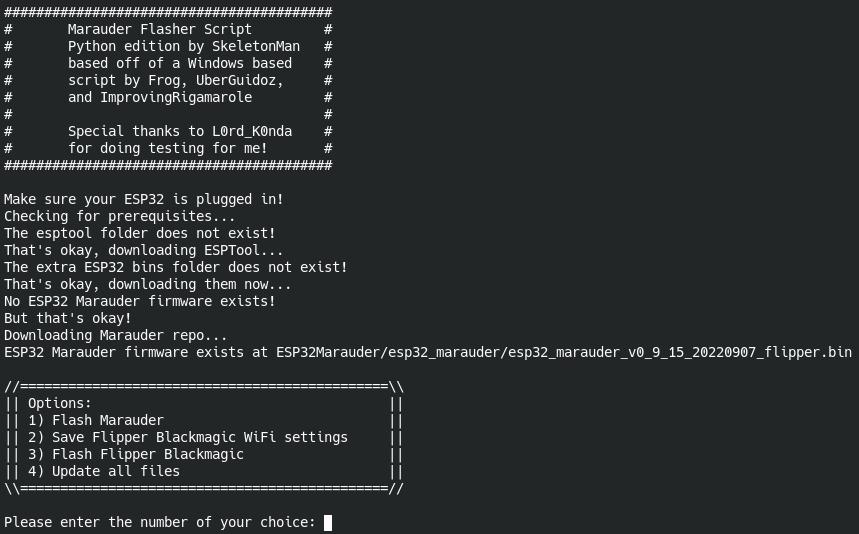
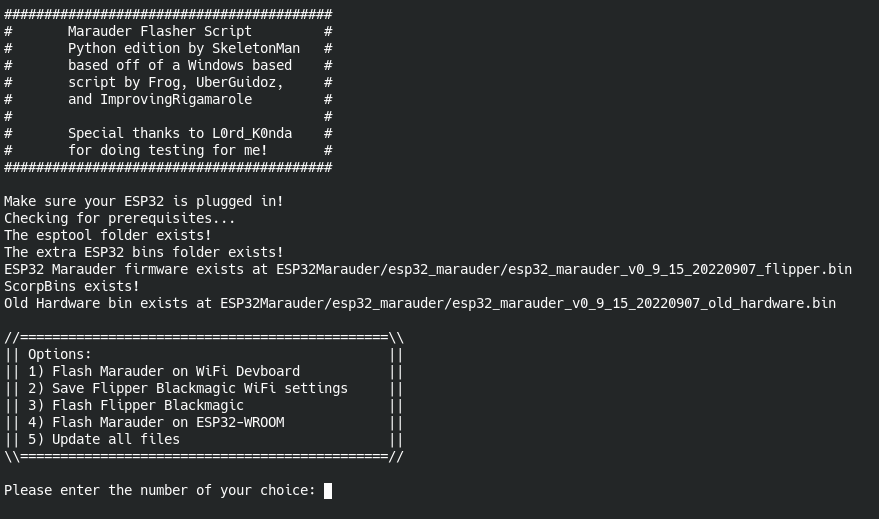
Added ability to flash ESP32-Wroom!
Finally added the ability to flash ESP32-Wroom! Thanks to Scorp for compiling the bootloader and partitions bins!

Changed region(s): [[0.0, 0.0, 0.9988, 1.0]]

diff --git a/EasyInstall.py b/EasyInstall.py
@@ -43,6 +43,18 @@ def checkforesptool():
 		Repo.clone_from(esptoolrepo, "esptool")
 	return
 
+def checkforscorpbins():
+	scorpbinsrepo="https://github.com/SkeletonMan03/TempScorpBins.git"
+	global scorpbins
+	scorpbins=("ScorpBins")
+	if os.path.exists(scorpbins):
+		print("ScorpBins exists!")
+	else:
+		print("The ScorpBins folder does not exist!")
+		print("That's okay, downloading them now...")
+		Repo.clone_from(scorpbinsrepo, scorpbins)
+	return
+
 def checkforextrabins():
 	extraesp32binsrepo="https://github.com/UberGuidoZ/Marauder_BINs.git"
 	global extraesp32bins
@@ -59,24 +71,33 @@ def choose_fw():
 	choices='''
 //==============================================\\\ 
 || Options:					||
-|| 1) Flash Marauder				||
+|| 1) Flash Marauder on WiFi Devboard		||
 || 2) Save Flipper Blackmagic WiFi settings	||
 || 3) Flash Flipper Blackmagic			||
-|| 4) Update all files				||
+|| 4) Flash Marauder on ESP32-WROOM		||
+|| 5) Update all files				||
 \\\==============================================//
 '''
+	global chip
 	print(choices)
 	fwchoice=int(input("Please enter the number of your choice: "))
 	if fwchoice==1:
 		print("You have chosen to flash Marauder!")
+		chip="esp32s2"
 		flash_esp32marauder()
 	elif fwchoice==2:
 		print("You have chosen to save Flipper Blackmagic WiFi settings")
+		chip="esp32s2"
 		save_flipperbmsettings()
 	elif fwchoice==3:
 		print("You have chosen to flash Flipper Blackmagic")
+		chip="esp32s2"
 		flash_flipperbm()
 	elif fwchoice==4:
+		print("You have chosen to flash Marauder onto an ESP32-WROOM")
+		chip="esp32"
+		flash_esp32wroom()
+	elif fwchoice==5:
 		print("You have chosen to update all of the files")
 		update_option()
 	else:
@@ -85,7 +106,7 @@ def choose_fw():
 
 def erase_esp32fw():
 	print("Erasing firmware...")
-	os.system("python3 "+esptoolfile+ " -p "+ serialport+ " -b "+ BR+ " -c esp32s2 --before default_reset -a no_reset erase_region 0x9000 0x6000")
+	os.system("python3 "+esptoolfile+ " -p "+ serialport+ " -b "+ BR+ " -c "+chip+" --before default_reset -a no_reset erase_region 0x9000 0x6000")
 	print("Firmware erased!")
 	print("Waiting 5 seconds...")
 	time.sleep(5)
@@ -106,19 +127,42 @@ def checkforesp32marauder():
 		else:
 			print("Somehow, the ESP32 Marauder firmware still does not exist!")
 		return
+def checkforoldhardwarebin():
+	espoldhardwarefwc=('ESP32Marauder/esp32_marauder/esp32_marauder_v[0-9]_[0-9]_[0-9][0-9]_*_old_hardware.bin')
+	if not glob.glob(espoldhardwarefwc):
+		print("old_hardware bin does not exist!")
+	global espoldhardwarefw
+	for espoldhardwarefw in glob.glob(espoldhardwarefwc):
+		if os.path.exists(espoldhardwarefw):
+			print("Old Hardware bin exists at", espoldhardwarefw)
+		else:
+			print("Somehow, the old_hardware.bin file does not exist!")
+	return
 
 def prereqcheck():
 	print("Checking for prerequisites...")
 	checkforesptool()
 	checkforextrabins()
 	checkforesp32marauder()
+	checkforscorpbins()
+	checkforoldhardwarebin()
 	return
 
 def flash_esp32marauder():
 	erase_esp32fw()
 	print("Flashing ESP32 Marauder Firmware...")
-	os.system("python3 "+esptoolfile+ " -p "+ serialport+ " -b "+ BR+ " -c esp32s2 --before default_reset -a no_reset write_flash --flash_mode dio --flash_freq 80m --flash_size 4MB 0x1000 "+ extraesp32bins +"/Marauder/bootloader.bin 0x8000 "+ extraesp32bins +"/Marauder/partitions.bin 0x10000 "+ esp32marauderfw)
+	os.system("python3 "+esptoolfile+ " -p "+ serialport+ " -b "+ BR+ " -c "+chip+" --before default_reset -a no_reset write_flash --flash_mode dio --flash_freq 80m --flash_size 4MB 0x1000 "+ extraesp32bins +"/Marauder/bootloader.bin 0x8000 "+ extraesp32bins +"/Marauder/partitions.bin 0x10000 "+ esp32marauderfw)
 	print("ESP32 has been flashed with Marauder!")
+	return
+
+def flash_esp32wroom():
+	global serialport
+	print("Flashing ESP32 Marauder Firmware onto ESP32-Wroom...")
+	if serialport=="/dev/ttyACM0":
+		serialport="/dev/ttyUSB0"
+	erase_esp32fw()
+	os.system("python3 "+esptoolfile+" -p"+serialport+" -b"+BR+" --before default_reset --after hard_reset -c esp32 write_flash --flash_mode dio --flash_freq 80m --flash_size 2MB 0x8000 "+scorpbins+"/partitions.bin 0x1000 "+scorpbins+"/bootloader.bin 0x10000 "+espoldhardwarefw)
+	print("ESP32-Wroom has been flashed with Marauder!")
 	return
 
 def save_flipperbmsettings():
@@ -126,17 +170,17 @@ def save_flipperbmsettings():
 	if serialport=="/dev/cu.usbmodem01":
 		serialport="/dev/cu.usbmodemblackmagic1"
 	print("Saving Flipper Blackmagic WiFi Settings to Extra_ESP32_Bins/Blackmagic/nvs.bin")
-	os.system("python3 "+esptoolfile+" -p "+serialport+" -b "+BR+" -c esp32s2 -a no_reset read_flash 0x9000 0x6000 "+extraesp32bins+ "/Blackmagic/nvs.bin")
+	os.system("python3 "+esptoolfile+" -p "+serialport+" -b "+BR+" -c "+chip+" -a no_reset read_flash 0x9000 0x6000 "+extraesp32bins+ "/Blackmagic/nvs.bin")
 	return
 
 def flash_flipperbm():
-	if os.path.exists(extraesp32bins+"/Blackmagic/nvs.bin"):
+	if os.path.exists("Blackmagic/nvs.bin"):
 		print("Flashing Flipper Blackmagic with WiFi Settings restore")
-		os.system("python3 "+esptoolfile+" -p "+serialport+" -b "+BR+" -c esp32s2 --before default_reset -a no_reset write_flash --flash_mode dio --flash_freq 80m --flash_size 4MB 0x1000 "+extraesp32bins+"/Blackmagic/bootloader.bin 0x8000 "+extraesp32bins+"/Blackmagic/partition-table.bin 0x9000 "+extraesp32bins+"/Blackmagic/nvs.bin 0x10000 "+extraesp32bins+"/Blackmagic/blackmagic.bin")
+		os.system("python3 "+esptoolfile+" -p "+serialport+" -b "+BR+" -c "+chip+" --before default_reset -a no_reset write_flash --flash_mode dio --flash_freq 80m --flash_size 4MB 0x1000 "+extraesp32bins+"/Blackmagic/bootloader.bin 0x8000 "+extraesp32bins+"/Blackmagic/partition-table.bin 0x9000 "+extraesp32bins+"/Blackmagic/nvs.bin 0x10000 "+extraesp32bins+"/Blackmagic/blackmagic.bin")
 	else:
 		print("Flashing Flipper Blackmagic without WiFi Settings restore")
 		erase_esp32fw()
-		os.system("python3 "+esptoolfile+" -p "+serialport+" -b "+BR+" -c esp32s2 --before default_reset -a no_reset write_flash --flash_mode dio --flash_freq 80m --flash_size 4MB 0x1000 "+extraesp32bins+"/Blackmagic/bootloader.bin 0x8000 "+extraesp32bins+"/Blackmagic/partition-table.bin 0x10000 "+extraesp32bins+"/Blackmagic/blackmagic.bin")
+		os.system("python3 "+esptoolfile+" -p "+serialport+" -b "+BR+" -c "+chip+" --before default_reset -a no_reset write_flash --flash_mode dio --flash_freq 80m --flash_size 4MB 0x1000 "+extraesp32bins+"/Blackmagic/bootloader.bin 0x8000 "+extraesp32bins+"/Blackmagic/partition-table.bin 0x10000 "+extraesp32bins+"/Blackmagic/blackmagic.bin")
 	return
 
 def update_option():

diff --git a/README.md b/README.md
@@ -31,3 +31,5 @@ Disclaimer: Includes Acknowledgements from the above linked repo from UberGuidoz
 * [L0rd_K0nda](https://github.com/L0rdK0nda) from the Unleashed Flipper Zero Discord for testing this script for me
 * [SkeletonMan](https://github.com/SkeletonMan03) Creating this Python flasher in order to try to make a multi-os flasher since the Batch script obviously could not run on Linux or Mac OS X
 * [CorbanR](https://github.com/CorbanR) Forking and fixing instructions and adding a requirement needed for Mac OS X
+* [dchalm](https://github.com/dchalm) Forking and fixing mistakes I should have noticed. Thank you!
+* [Scorp] Compiling needed bins to be able to flash to ESP32-Wroom
